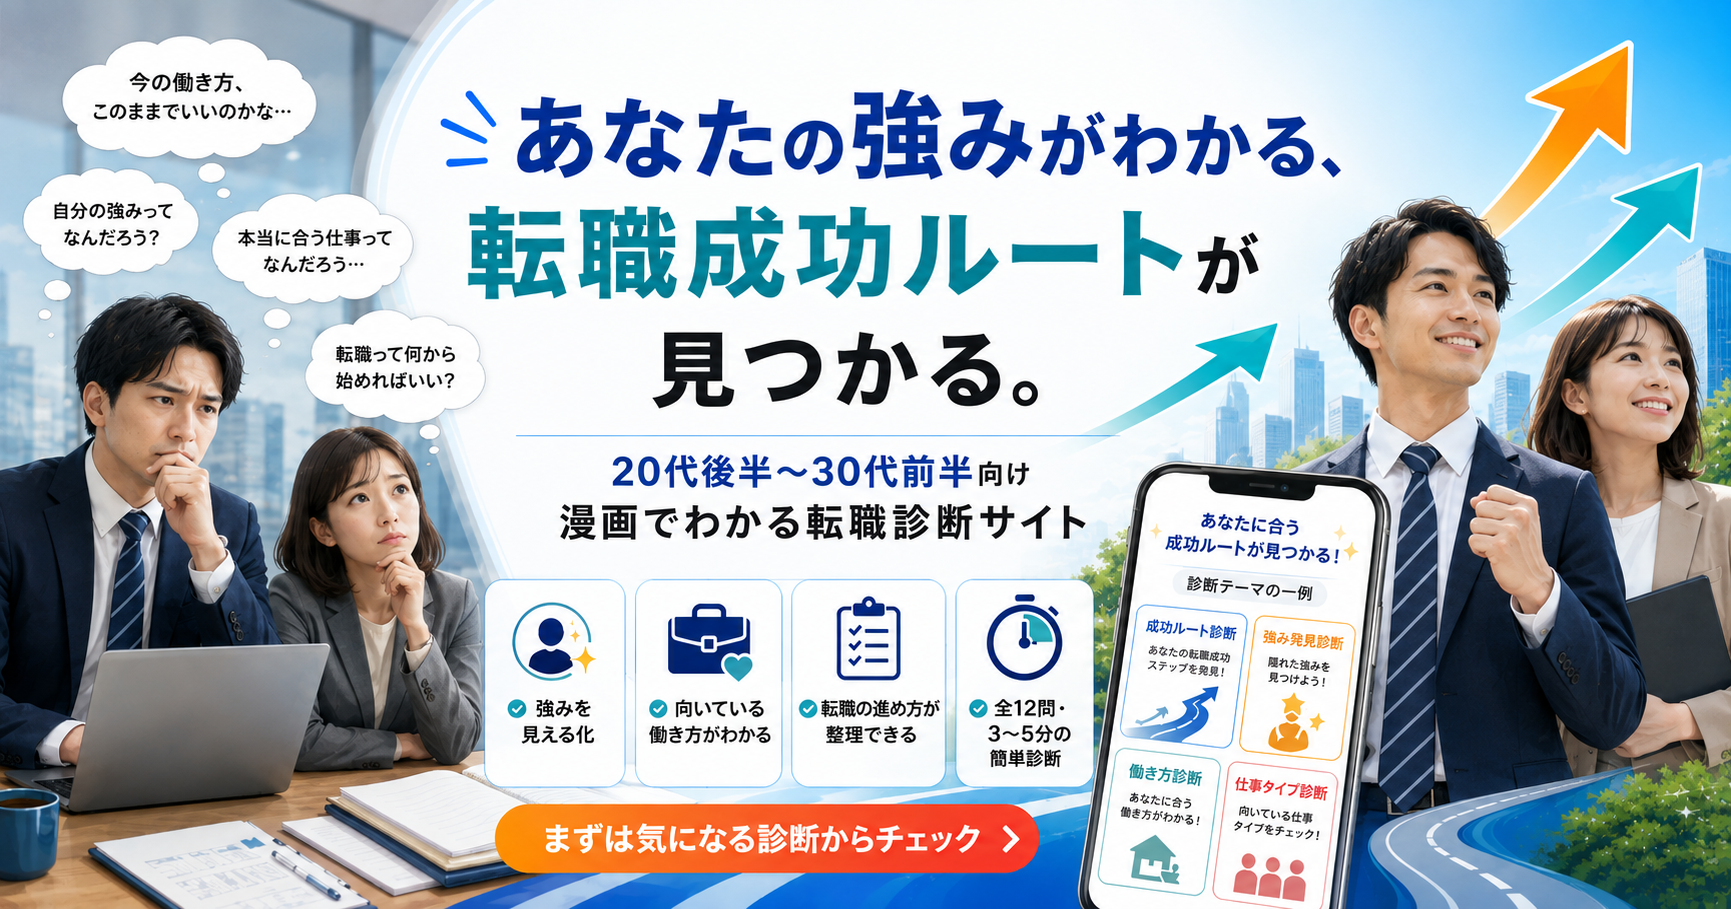
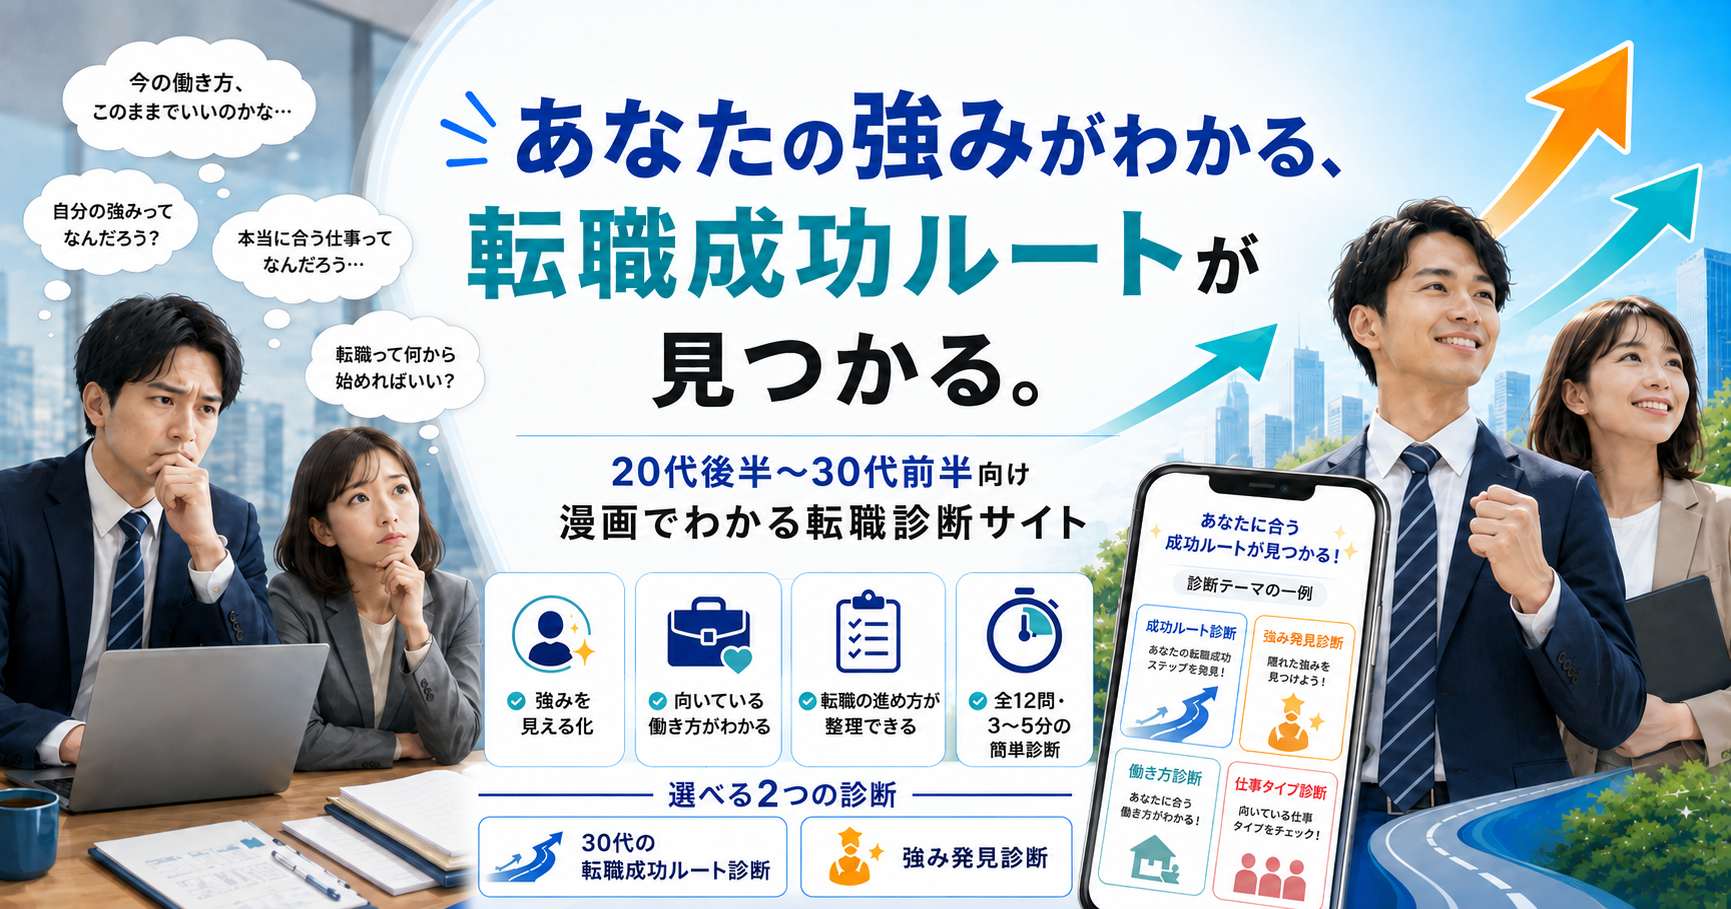
トップページ改善: 最上部のアイキャッチを新バージョンに差し替え、画像内のボタン風要素を実際に機能するCTAボタンとして明確化
- eyecatch-top.png を新デザイン（「選べる2つの診断」訴求版）に差し替え
- 画像下に実体のあるCTAボタン2つを新設: 「30代の転職成功ルート診断」(青塗り→sanjudai.html)／「強み発見診断（業種・職種別）」(白抜き→#industryGrid)。画像内のボタン風表示は装飾のため、実際の遷移はこのボタンで担保

diff --git a/index.html b/index.html
@@ -30,6 +30,12 @@
   .site-hero{background:#fff;padding:18px 0 6px}
   .hero-banner{display:block;width:100%;height:auto;margin:0 auto;border-radius:14px;overflow:hidden;box-shadow:0 8px 24px rgba(15,118,110,.12)}
   .hero-banner img{display:block;width:100%;height:auto}
+  .top-cta-row{display:grid;grid-template-columns:1fr 1fr;gap:10px;margin-top:14px}
+  .top-cta{display:flex;align-items:center;justify-content:center;gap:8px;background:#fff;border:2px solid #1d4ed8;color:#1d4ed8;font-weight:800;font-size:14px;padding:14px 10px;border-radius:12px;text-decoration:none;text-align:center;line-height:1.4;transition:.18s;box-shadow:0 3px 10px rgba(0,0,0,.06)}
+  .top-cta:hover{transform:translateY(-2px);box-shadow:0 10px 22px rgba(29,78,216,.18)}
+  .top-cta.primary{background:linear-gradient(135deg,#1d4ed8,#1e3a8a);color:#fff;border-color:transparent;box-shadow:0 8px 18px rgba(29,78,216,.32)}
+  .top-cta .ic{font-size:18px;flex-shrink:0}
+  @media(max-width:480px){.top-cta-row{grid-template-columns:1fr}}
   main{padding:36px 0 50px}
   .lead{text-align:center;font-weight:800;font-size:18px;margin-bottom:6px}
   .lead-sub{text-align:center;color:var(--muted);font-size:13.5px;margin-bottom:26px}
@@ -138,6 +144,10 @@ footer{background:#0e1116}
 <div class="pr-bar">本ページはプロモーション（アフィリエイト広告）を含みます</div>
 <div class="wrap" style="padding-top:16px">
   <a class="hero-banner" href="#start"><img src="eyecatch-top.png" alt="あなたの強みがわかる、転職成功ルートが見つかる。20代後半〜30代前半向け・漫画でわかる転職診断サイト"></a>
+  <div class="top-cta-row">
+    <a class="top-cta primary" href="sanjudai.html"><span class="ic">🚀</span>30代の転職成功ルート診断</a>
+    <a class="top-cta" href="#industryGrid"><span class="ic">⭐</span>強み発見診断（業種・職種別）</a>
+  </div>
 </div>
 <main class="wrap">
   <div class="lead" id="start">あなたに合う転職診断を選んでください</div>
